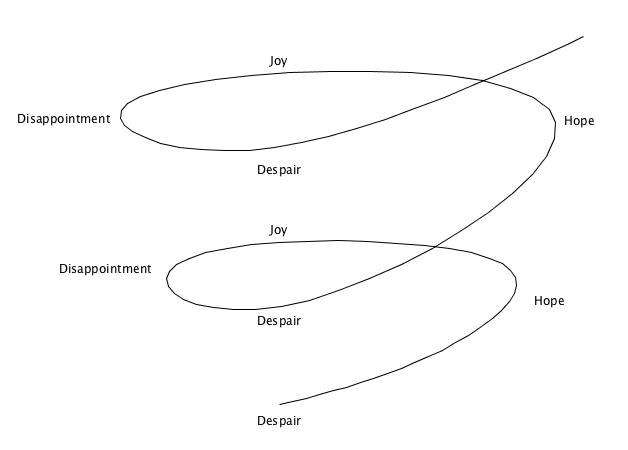
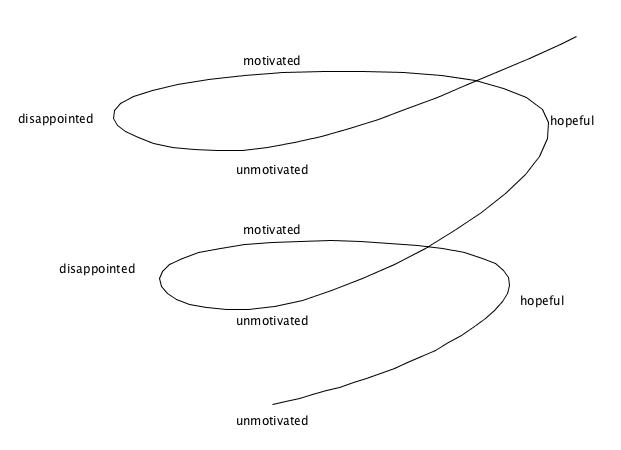
Post in draft form.

diff --git a/_posts/2016-02-24-experience-cycles.md b/_posts/2016-02-24-experience-cycles.md
@@ -1,5 +1,5 @@
 ---
-title: Experience Cycles
+title: Motivation Cycles
 ---
 
 
@@ -10,16 +10,32 @@ Way that Bobby Brown is just amping like Michael
 
 <div class="citation"><a href="https://en.wikipedia.org/wiki/The_Low_End_Theory">Excursions - A Tribe Called Quest</a></div>
 
-I work in a challenging environment where the effects of improvement efforts are only perceivable in retrospect over quite some time. In occasional moments of clarity, I can consciously recognize that a current positive approach or behavior might not have been possible at a particular point in the past, but it can be frustrating and defeating during many other moments to crash hopelessly against barriers tied to systemic organizational inertia.
+I work in a challenging environment where the effects of improvement efforts are only perceivable in retrospect over quite some time. It is one thing to state that improvement has occurred, even to cite specific examples as evidence, and something else altogether to vividly experience the difference. (We humans tend to recalibrate our expectations frequently based on current circumstance, but our perception often misses the quiet signals of small changes over time). 
 
-I find this experience has a noticeable impact on motivation, though it seems to follow a cyclical pattern:
+One way or another, the circumstance has led me to notice that motivation waxes and wanes in a somewhat cyclical pattern.
 
 ![Cycles](/assets/posts/images/2016-02-24-experience-cycles-00.jpg)
 
-And that is all well and good, as long as some degree of learning (or other positive progress) occurs along the way.
+Objectively, a motivation model being cyclical is not problematic, as long as some degree of positive learning or other progress can be observed along the way. I'm not yet sure if "learning" is the right way to describe it, though, or if there should even be a linear measure of it in the first place. It seems that a cycle can enable a new level of *something*, be it fundamental understanding, existence, or maybe happiness.
+
+Assuming the *something* is positive, we want to exploit such a model to maximize the movement in a positive direction (i.e., towards periods of high motivation) while minimizing the opposite.
 
 ![Cycles](/assets/posts/images/2016-02-24-experience-cycles-01.jpg)
 
-These cycles can vary in severity, length, and frequency.
+The problem is that these cycles can vary in severity, length, and frequency, but no cause will be immediately apparent. In other words, motivation is complex.
 
 ![Cycles](/assets/posts/images/2016-02-24-experience-cycles-02.jpg)
+
+Complexity isn't a reason to give up. Rather, [operating within a complex space necessitates deliberate experimentation](https://en.wikipedia.org/wiki/Cynefin_Framework). The key is to amplify good experiment results and dampen poor ones.
+
+Recognition of the cyclical nature of motivation enables certain awarenesses. For example, what does a series of motivation cycles without positive movement in learning or improvement or that *something* indicate?
+
+![Cycles](/assets/posts/images/2016-02-24-experience-cycles-03.jpg)
+
+All I know is that I do not want to be there, so an experiment is in order.
+
+What is the effect on the motivation cycle of a day's vacation, timed with a trend towards "unmotivated"? If the effect is positive, then it can be amplified through more deliberate future use of vacation time or restructuring of work hours (if the flexibility is there). If the effect is negative, it can be dampened by pursuing other activities already known to be motivating.
+
+I ran such an experiment, and found myself recovering by the following day ("hopeful"). As a result, I plan to allocate half my accrued vacation time for this purpose in order to amplify the effect over time.
+
+The joy is that there are endless experiments to be run. What about increasing focus on my reading list when motivation wanes? Or hitting the gym? Experimenting in this space seems like common sense, now that I've had the chance to explore the idea. But that's the point; this is knowledge that can only be gained in retrospect.
